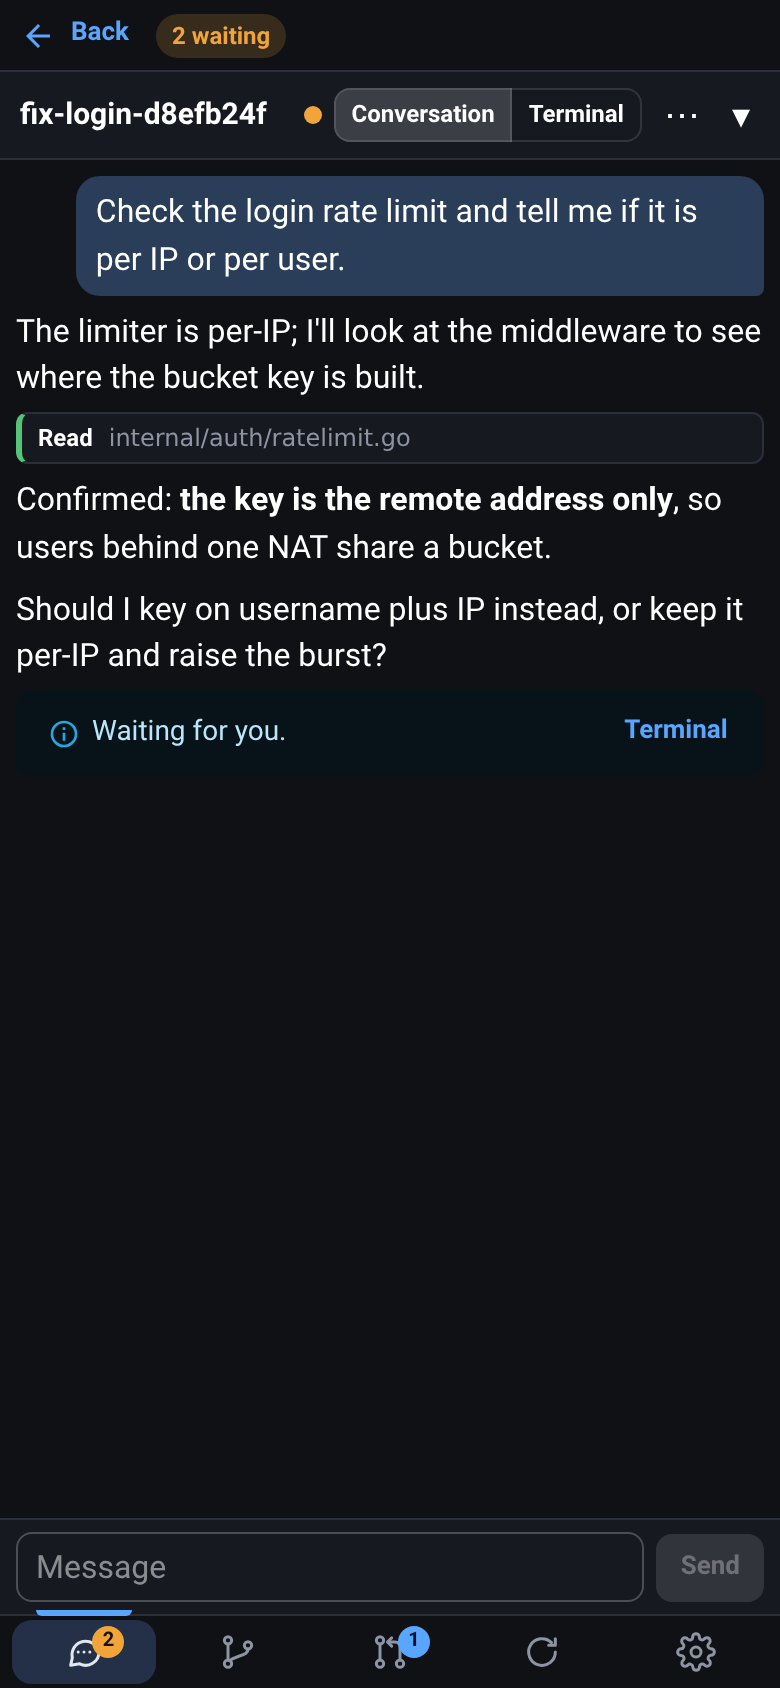
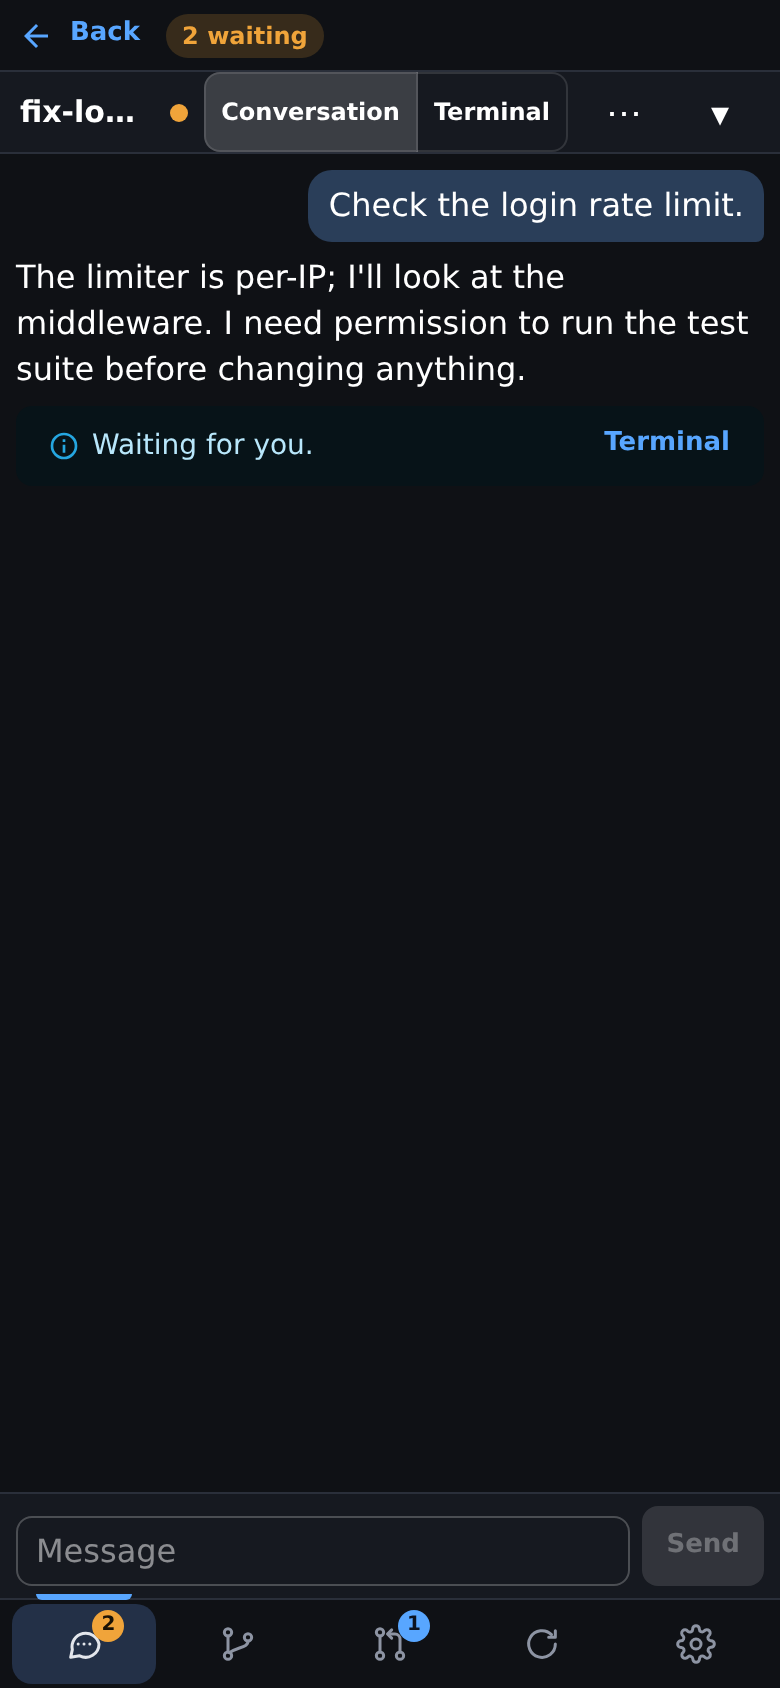
fix: raise phone tap targets to 40px
Bottom nav items, header view toggle, More actions and Details buttons,
Back, Send and the needs-input Terminal button reach 40px at 720px and
below, using negative margins to keep the header slim. Name the phone
status dot for assistive tech. Regenerate the mobile screenshots.

diff --git a/desktop/src/features/agents/StatusDot.tsx b/desktop/src/features/agents/StatusDot.tsx
@@ -9,7 +9,13 @@ export interface StatusDotProps {
 }
 
 export const StatusDot = ({ status, withLabel = false }: StatusDotProps): JSX.Element => (
-  <span className={styles.root} data-status={status} title={statusLabels[status]}>
+  <span
+    className={styles.root}
+    data-status={status}
+    title={statusLabels[status]}
+    role={withLabel ? undefined : "img"}
+    aria-label={withLabel ? undefined : statusLabels[status]}
+  >
     <span className={styles.dot} />
     {withLabel && <span className={styles.label}>{statusLabels[status]}</span>}
   </span>

diff --git a/desktop/src/features/agents/EntryPane.module.css b/desktop/src/features/agents/EntryPane.module.css
@@ -119,7 +119,7 @@
 
   .compact .titleRow {
     flex-wrap: nowrap;
-    gap: 6px;
+    gap: 8px;
   }
 
   .compact .title {
@@ -132,9 +132,20 @@
   }
 
   .compact .titleRow :global(.MuiToggleButton-root) {
+    min-height: 40px;
     padding: 2px 8px;
     font-size: 12px;
     text-transform: none;
+  }
+
+  .compact .titleRow :global(.MuiToggleButtonGroup-root) {
+    margin: -6px 0;
+  }
+
+  .compact .titleRow :global(.MuiIconButton-root) {
+    min-width: 40px;
+    min-height: 40px;
+    margin: -6px 0;
   }
 }
 

diff --git a/desktop/src/features/agents/EntryPane.test.tsx b/desktop/src/features/agents/EntryPane.test.tsx
@@ -208,5 +208,10 @@ describe("EntryPane opening a workspace", () => {
       await userEvent.click(toggle);
       expect(toggle).toHaveAttribute("aria-expanded", "true");
     });
+
+    it("names the status dot, which has no label on a phone", () => {
+      renderWithStore(<EntryPane entry={{ ...shellWorkspace, status: "needsInput" }} />, testStore());
+      expect(screen.getByRole("img", { name: "Needs input" })).toBeInTheDocument();
+    });
   });
 });

diff --git a/desktop/src/features/conversation/ConversationView.module.css b/desktop/src/features/conversation/ConversationView.module.css
@@ -278,6 +278,12 @@
     padding: 0 0 0 8px;
   }
 
+  .waiting :global(.MuiAlert-action .MuiButton-root) {
+    min-height: 40px;
+    min-width: 40px;
+    margin: -6px 0;
+  }
+
   .waitingMore {
     display: none;
   }

diff --git a/desktop/src/App.module.css b/desktop/src/App.module.css
@@ -162,4 +162,9 @@
     min-height: 36px;
     border-bottom: 1px solid var(--border);
   }
+
+  .backBar :global(.MuiButton-root) {
+    min-height: 40px;
+    margin: -2px 0;
+  }
 }

diff --git a/desktop/src/features/rail/Rail.module.css b/desktop/src/features/rail/Rail.module.css
@@ -101,7 +101,9 @@
     width: auto;
     flex: 1;
     max-width: 72px;
+    min-height: 40px;
     padding: 6px 0;
+    justify-content: center;
   }
 
   .item > span:not(.badge) {

diff --git a/desktop/src/features/terminals/ReplyBox.module.css b/desktop/src/features/terminals/ReplyBox.module.css
@@ -20,7 +20,7 @@
   .send {
     flex: none;
     min-width: 0 !important;
-    height: 34px;
+    min-height: 40px;
     padding: 0 12px !important;
   }
 }
